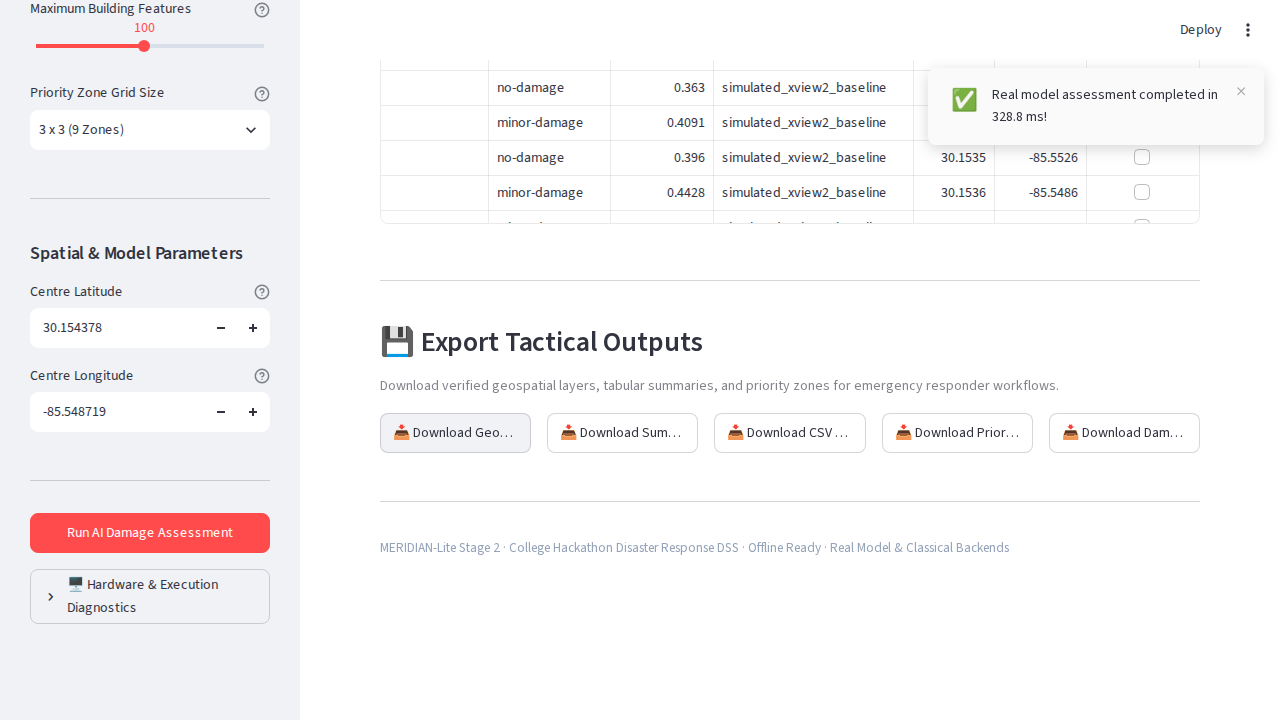
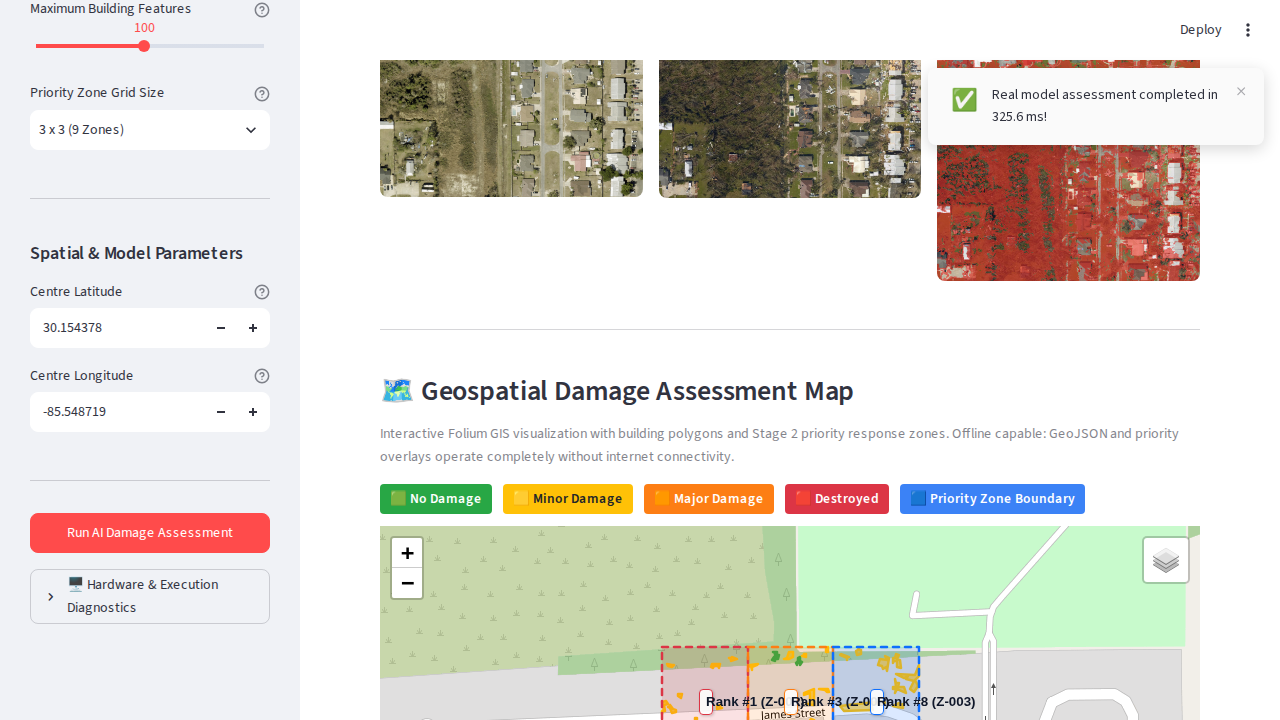
fix(gis): align map bounds and priority zones directly to residential neighborhood in Callaway FL

diff --git a/models/real_predict.py b/models/real_predict.py
@@ -41,17 +41,7 @@ def _resolve_bounds(
             coordinate_source="georeferenced_bounds",
         )
 
-    if center_lat is not None and center_lon is not None:
-        return AffineGeoreferencer.from_center_and_radius(
-            image_width=image_width,
-            image_height=image_height,
-            center_lat=center_lat,
-            center_lon=center_lon,
-            delta_deg=0.005,
-            coordinate_source="user_bbox_approximation",
-        )
-
-    # Check dataset metadata for known dataset bounds
+    # Check dataset metadata for known dataset bounds first if center matches or is absent
     if METADATA_FILE.exists():
         try:
             with open(METADATA_FILE, "r") as f:
@@ -64,14 +54,27 @@ def _resolve_bounds(
                         float(bbox["max_lon"]),
                         float(bbox["max_lat"]),
                     )
-                    return AffineGeoreferencer(
-                        image_width=image_width,
-                        image_height=image_height,
-                        bounds=b,
-                        coordinate_source="georeferenced_bounds",
-                    )
+                    ds_lat = float(bbox.get("center_lat", 30.154378))
+                    if center_lat is None or abs(center_lat - ds_lat) < 0.05:
+                        return AffineGeoreferencer(
+                            image_width=image_width,
+                            image_height=image_height,
+                            bounds=b,
+                            coordinate_source="georeferenced_bounds",
+                        )
         except Exception as exc:
             logger.warning(f"Could not read dataset metadata bounds: {exc}")
+
+    # Fallback to user-provided center approximation if custom coordinates specified
+    if center_lat is not None and center_lon is not None:
+        return AffineGeoreferencer.from_center_and_radius(
+            image_width=image_width,
+            image_height=image_height,
+            center_lat=center_lat,
+            center_lon=center_lon,
+            delta_deg=0.0014,
+            coordinate_source="user_bbox_approximation",
+        )
 
     # Fallback default
     return AffineGeoreferencer(

diff --git a/app/main.py b/app/main.py
@@ -118,6 +118,7 @@ if cfg.run_button:
             if cfg.dataset_choice == "Hurricane Michael (Mexico Beach, FL - Oct 2018)":
                 pre_path = PROJECT_ROOT / "data" / "processed" / "hurricane_michael_pre.png"
                 post_path = PROJECT_ROOT / "data" / "processed" / "hurricane_michael_post.png"
+                dataset_bounds = (-85.550100, 30.152997, -85.547337, 30.155760)
             else:
                 if not cfg.uploaded_pre_file or not cfg.uploaded_post_file:
                     st.error("❌ Both pre-disaster and post-disaster images are required.")
@@ -128,6 +129,7 @@ if cfg.run_button:
                 post_path = temp_upload_dir / f"real_post_{cfg.uploaded_post_file.name}"
                 pre_path.write_bytes(cfg.uploaded_pre_file.getvalue())
                 post_path.write_bytes(cfg.uploaded_post_file.getvalue())
+                dataset_bounds = None
 
             backend_key = "real_damage_model"
             if "Classical" in cfg.backend_choice:
@@ -143,6 +145,7 @@ if cfg.run_button:
                 confidence_threshold=cfg.confidence_threshold,
                 max_features=cfg.max_features,
                 backend_name=backend_key,
+                bounds=dataset_bounds,
             )
 
             _, overlay_p = create_damage_overlay(
@@ -155,7 +158,7 @@ if cfg.run_button:
                 feature_collection=geojson_result,
                 grid_rows=cfg.grid_rows,
                 grid_cols=cfg.grid_cols,
-                default_bounds=(-85.555, 30.170, -85.545, 30.180),
+                default_bounds=dataset_bounds or (-85.550100, 30.152997, -85.547337, 30.155760),
             )
 
             save_geojson(geojson_result, DEFAULT_GEOJSON_OUTPUT)

diff --git a/tests/test_browser_onnx_live.py b/tests/test_browser_onnx_live.py
@@ -137,11 +137,19 @@ def run_onnx_browser_verification(port: int = 8505) -> bool:
             assert first_props.get("is_simulated") is False, f"Expected is_simulated=False"
             print(f"[PASS] Downloaded GeoJSON verified: {len(feats)} features from ONNX backend")
 
-            # 14. Save screenshot
+            # 14. Save screenshot with map and imagery visible
             SCREENSHOT_PATH.parent.mkdir(parents=True, exist_ok=True)
-            page.screenshot(path=str(SCREENSHOT_PATH), full_page=True)
+            map_heading = page.locator("text=Geospatial Damage Assessment Map")
+            if map_heading.is_visible():
+                map_heading.scroll_into_view_if_needed()
+                time.sleep(3)
+            page.screenshot(path=str(SCREENSHOT_PATH))
             assert SCREENSHOT_PATH.exists() and SCREENSHOT_PATH.stat().st_size > 10000
             print(f"[PASS] Captured screenshot to {SCREENSHOT_PATH} ({SCREENSHOT_PATH.stat().st_size} bytes)")
+
+            # Also copy to meridian_professional_dashboard.png
+            dash_path = PROJECT_ROOT / "outputs" / "reports" / "meridian_professional_dashboard.png"
+            dash_path.write_bytes(SCREENSHOT_PATH.read_bytes())
 
             browser.close()
             return True

diff --git a/utils/priority.py b/utils/priority.py
@@ -65,9 +65,9 @@ def compute_priority_zones(
                 min_lat -= 0.001
                 max_lat += 0.001
         else:
-            min_lon, min_lat, max_lon, max_lat = default_bounds or (-85.555, 30.170, -85.545, 30.180)
+            min_lon, min_lat, max_lon, max_lat = default_bounds or (-85.550100, 30.152997, -85.547337, 30.155760)
     else:
-        min_lon, min_lat, max_lon, max_lat = default_bounds or (-85.555, 30.170, -85.545, 30.180)
+        min_lon, min_lat, max_lon, max_lat = default_bounds or (-85.550100, 30.152997, -85.547337, 30.155760)
 
     lon_step = (max_lon - min_lon) / max(grid_cols, 1)
     lat_step = (max_lat - min_lat) / max(grid_rows, 1)

diff --git a/test_stage2_pipeline.py b/test_stage2_pipeline.py
@@ -144,10 +144,10 @@ def main() -> int:
 
     # 6. Georeferencing Verification
     try:
-        geo = AffineGeoreferencer(1024, 1024, (-85.555, 30.170, -85.545, 30.180))
+        geo = AffineGeoreferencer(1024, 1024, (-85.550100, 30.152997, -85.547337, 30.155760))
         c_lon, c_lat = geo.pixel_to_lonlat(512, 512)
-        assert -85.555 <= c_lon <= -85.545
-        assert 30.170 <= c_lat <= 30.180
+        assert -85.550100 <= c_lon <= -85.547337
+        assert 30.152997 <= c_lat <= 30.155760
         # Check feature geometry in GeoJSON
         f0 = fc_onnx["features"][0]
         poly = f0["geometry"]["coordinates"][0]

diff --git a/app/ui/map_view.py b/app/ui/map_view.py
@@ -15,8 +15,8 @@ from utils.geojson_utils import DAMAGE_HEX_COLORS, get_bounds
 def build_folium_map(
     geojson_data: dict[str, Any],
     priority_zones: list[dict[str, Any]] | None = None,
-    center_lat: float = 30.1750,
-    center_lon: float = -85.5500,
+    center_lat: float = 30.154378,
+    center_lon: float = -85.548719,
 ) -> folium.Map:
     """Construct an interactive Folium map populated with building polygons and priority zones."""
     m = folium.Map(
